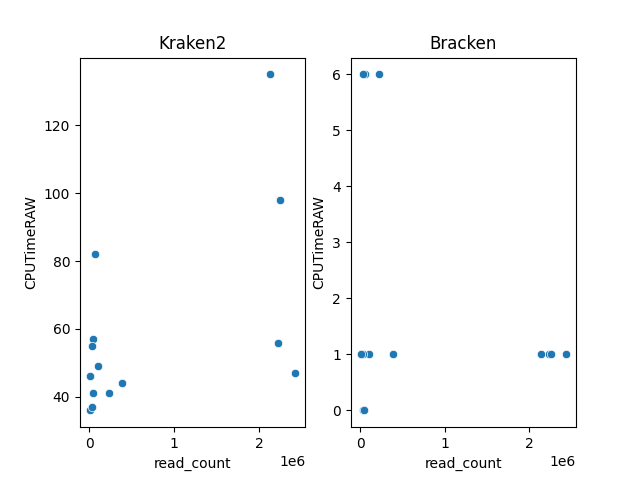
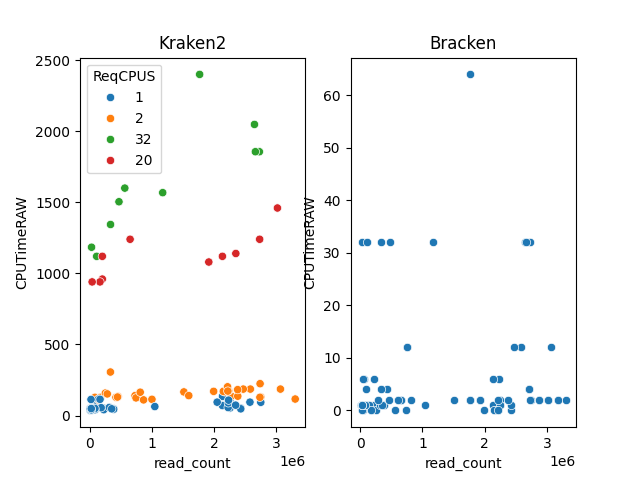
Add analyze jobtime

diff --git a/scripts/analyze_jobtime.py b/scripts/analyze_jobtime.py
@@ -18,9 +18,25 @@ plt.savefig("counts_v_raw.png")
 
 # Day 3
 
-df_job = pd.read_sql("SELECT * FROM kraken2_viral_resources_used WHERE JobID LIKE '35185752%'", conn)
+df_job = pd.read_sql("SELECT * FROM kraken2_viral_resources_used", conn)
+
+
+def job_id_has_correct_format(id):
+    if not "_" in id:
+        return False
+    first_part = id.split("_")[0]
+    first_part = str.lower(first_part)
+    if first_part not in (["kraken2", "bracken"]):
+        return False
+    return True
+
+
 print(df_job)
 print(df_job["JobName"].unique())
+
+df_job["id_format_correct"] = df_job["JobName"].apply(lambda x: job_id_has_correct_format(x))
+df_job = df_job[df_job["id_format_correct"] == True]
+
 df_job["accession"] = df_job["JobName"].apply(lambda x: str(x).split("_")[1])
 df_job["kraken_or_bracken"] = df_job["JobName"].apply(lambda x: str(x).split("_")[0])
 df_reads = pd.read_sql("""SELECT * from sample_annot""", conn)
@@ -28,17 +44,20 @@ df_reads = pd.read_sql("""SELECT * from sample_annot""", conn)
 print(df_job.head())
 print(df_reads.head())
 
-df_merged = df_job.merge(df_reads, left_on="accession", right_on="run_accession")
+df_merged = df_job.merge(df_reads, left_on="accession", right_on="run_accession", how="inner")
 
 df_merged["read_count"] = df_merged["read_count"].astype(float)
 df_merged["CPUTimeRAW"] = df_merged["CPUTimeRAW"].astype(float)
 
 print(df_merged)
+print(df_merged.columns)
 fig, axs = plt.subplots(1,2)
 
-sns.scatterplot(df_merged[df_merged["kraken_or_bracken"] == "kraken2"] ,x="read_count", y="CPUTimeRAW", ax=axs[0])
+sns.scatterplot(df_merged[df_merged["kraken_or_bracken"] == "kraken2"] ,x="read_count", y="CPUTimeRAW", ax=axs[0], hue="ReqCPUS")
 sns.scatterplot(df_merged[df_merged["kraken_or_bracken"] == "bracken"] ,x="read_count", y="CPUTimeRAW", ax=axs[1])
 
 axs[0].set_title("Kraken2")
 axs[1].set_title("Bracken")
+
+
 plt.savefig("counts_v_raw_kraken.png")
